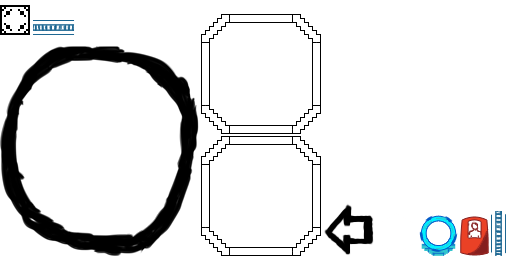
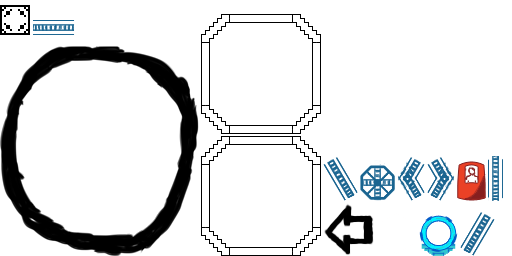
Debris Visuals Added

Changed region(s): [[0.625, 0.5938, 1.0, 0.7812], [0.875, 0.8125, 1.0, 1.0]]

diff --git a/Sunday/Assets/Scripts/Game/Impermanent/Impermanent.cs b/Sunday/Assets/Scripts/Game/Impermanent/Impermanent.cs
@@ -3,6 +3,8 @@ using System.Collections;
 
 public class Impermanent : DoctorObject {
 	
+	public enum eImpType {Obstacle,Patient,Teleporter};
+	
 	public int m_nDefaultCol = -1;
 	public int m_nDefaultRow = -1;
 	
@@ -13,8 +15,9 @@ public class Impermanent : DoctorObject {
 	
 	public Visual m_pVisualPrefab;
 	
-	private Visual m_pVisual;
+	protected eImpType m_eType;
 	
+	private Visual m_pVisual;
 	private bool m_bIsHealing;
 	
 	public override void Initialize ()
@@ -53,6 +56,11 @@ public class Impermanent : DoctorObject {
 		
 		m_pVisual.SetAlpha(m_fCurrentHealth / m_fMaxHealth);
 		
+	}
+	
+	public eImpType GetImpType()
+	{
+		return m_eType;
 	}
 	
 	public virtual void OnDeath()

diff --git a/Sunday/Assets/Scripts/Game/Impermanent/Patient.cs b/Sunday/Assets/Scripts/Game/Impermanent/Patient.cs
@@ -3,13 +3,14 @@ using System.Collections;
 
 public class Patient : Impermanent {
 
-	// Use this for initialization
-	void Start () {
-	
+	public override void Initialize ()
+	{
+		base.Initialize ();
+		m_eType = Impermanent.eImpType.Patient;
 	}
 	
-	// Update is called once per frame
-	void Update () {
-	
+	public override void UpdateObject (float dt)
+	{
+		base.UpdateObject (dt);
 	}
 }

diff --git a/Sunday/Assets/Scripts/Game/Impermanent/Obstacle.cs b/Sunday/Assets/Scripts/Game/Impermanent/Obstacle.cs
@@ -1,12 +1,12 @@
 using UnityEngine;
 using System.Collections;
 
-public class Teleporter : Impermanent {
+public class Obstacle : Impermanent {
 
 	public override void Initialize ()
 	{
 		base.Initialize ();
-		m_eType = Impermanent.eImpType.Teleporter;
+		m_eType = Impermanent.eImpType.Obstacle;
 	}
 	
 	public override void UpdateObject (float dt)
